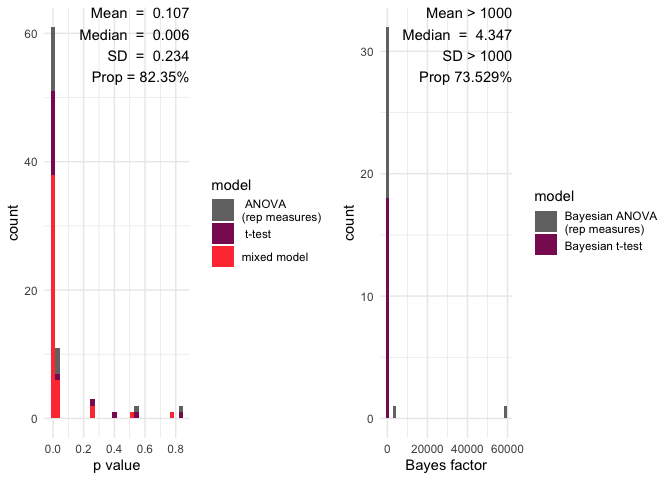
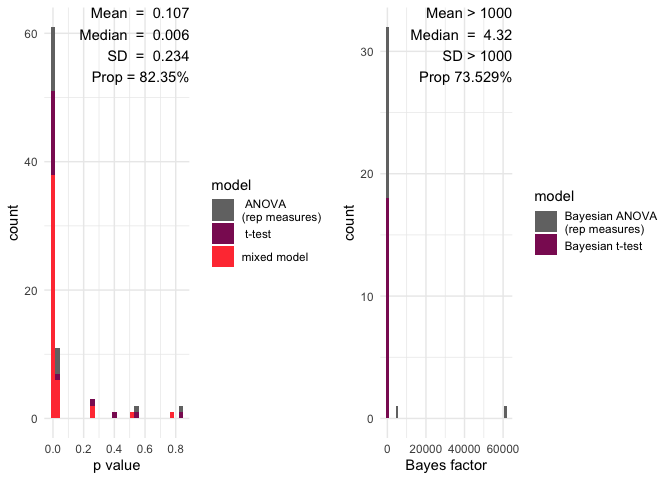
Preparations for 0.1.2 release

Changed region(s): [[0.5938, 0.9062, 0.7812, 0.9688], [0.5938, 0.0625, 0.7812, 0.0938], [0.5625, 0.8438, 0.5938, 0.875]]

diff --git a/docs/index.html b/docs/index.html
@@ -31,7 +31,7 @@
       </button>
       <span class="navbar-brand">
         <a class="navbar-link" href="index.html">multifear</a>
-        <span class="version label label-default" data-toggle="tooltip" data-placement="bottom" title="Released version">0.1.1</span>
+        <span class="version label label-default" data-toggle="tooltip" data-placement="bottom" title="Released version">0.1.2</span>
       </span>
     </div>
 
@@ -78,26 +78,30 @@
 <div id="installing-and-loading-the-package" class="section level2">
 <h2 class="hasAnchor">
 <a href="#installing-and-loading-the-package" class="anchor"></a>Installing and loading the package</h2>
+<p>You can install via CRAN with the following command:</p>
 <div class="sourceCode" id="cb1"><pre class="downlit sourceCode r">
+<code class="sourceCode R"><span class="fu"><a href="https://rdrr.io/r/utils/install.packages.html">install.packages</a></span><span class="op">(</span><span class="st">"multifear"</span><span class="op">)</span></code></pre></div>
+<p>For the development version, you can use the following commant:</p>
+<div class="sourceCode" id="cb2"><pre class="downlit sourceCode r">
 <code class="sourceCode R"><span class="co"># Install devtools package in case it is not yet installed</span>
 <span class="fu"><a href="https://rdrr.io/r/utils/install.packages.html">install.packages</a></span><span class="op">(</span><span class="st">"devtools"</span><span class="op">)</span> 
 <span class="fu">devtools</span><span class="fu">::</span><span class="fu"><a href="https://devtools.r-lib.org//reference/remote-reexports.html">install_github</a></span><span class="op">(</span><span class="st">"AngelosPsy/multifear"</span><span class="op">)</span></code></pre></div>
 <p>The package can be loaded with the following code:</p>
-<div class="sourceCode" id="cb2"><pre class="downlit sourceCode r">
+<div class="sourceCode" id="cb3"><pre class="downlit sourceCode r">
 <code class="sourceCode R"><span class="kw"><a href="https://rdrr.io/r/base/library.html">library</a></span><span class="op">(</span><span class="va"><a href="https://github.com/AngelosPsy/multifear">multifear</a></span><span class="op">)</span></code></pre></div>
 </div>
 <div id="basic-example" class="section level2">
 <h2 class="hasAnchor">
 <a href="#basic-example" class="anchor"></a>Basic Example</h2>
 <p>We will start with a basic example of how the package works. Before doing that, let’s load some additional packages that we need for our example.</p>
-<div class="sourceCode" id="cb3"><pre class="downlit sourceCode r">
+<div class="sourceCode" id="cb4"><pre class="downlit sourceCode r">
 <code class="sourceCode R"><span class="fu"><a href="https://rdrr.io/r/base/message.html">suppressPackageStartupMessages</a></span><span class="op">(</span><span class="kw"><a href="https://rdrr.io/r/base/library.html">library</a></span><span class="op">(</span><span class="va"><a href="https://dplyr.tidyverse.org">dplyr</a></span><span class="op">)</span><span class="op">)</span>
 <span class="fu"><a href="https://rdrr.io/r/base/message.html">suppressPackageStartupMessages</a></span><span class="op">(</span><span class="kw"><a href="https://rdrr.io/r/base/library.html">library</a></span><span class="op">(</span><span class="va"><a href="https://ggplot2.tidyverse.org">ggplot2</a></span><span class="op">)</span><span class="op">)</span></code></pre></div>
 <p>Now we will use some simulated data set that are included as example data in the package. In principle, you can use any data including conditioned responses (e.g., skin conductance). You can load the simulated data in your workspace as follows:</p>
-<div class="sourceCode" id="cb4"><pre class="downlit sourceCode r">
+<div class="sourceCode" id="cb5"><pre class="downlit sourceCode r">
 <code class="sourceCode R"><span class="fu"><a href="https://rdrr.io/r/utils/data.html">data</a></span><span class="op">(</span><span class="st">"example_data"</span><span class="op">)</span></code></pre></div>
 <p>From these data we are going to select only the 10 first lines – it saves a lot of time for computation for this example. Here are the first 10 rows of the data set:</p>
-<div class="sourceCode" id="cb5"><pre class="downlit sourceCode r">
+<div class="sourceCode" id="cb6"><pre class="downlit sourceCode r">
 <code class="sourceCode R"><span class="fu"><a href="https://rdrr.io/r/utils/head.html">head</a></span><span class="op">(</span><span class="va">example_data</span>, <span class="fl">10</span><span class="op">)</span>
 <span class="co">#&gt;    id       CSP1       CSP2       CSP3      CSP4      CSP5      CSP6      CSP7</span>
 <span class="co">#&gt; 1   2 0.62905570 0.92988220  1.0415000 0.9330014 0.9743682 0.8855119 0.8418664</span>
@@ -133,7 +137,7 @@
 <span class="co">#&gt; 9  0.02774107 0.39216860 0.1940482 1.33170800 0.41266960 0.00000000     1</span>
 <span class="co">#&gt; 10 0.72851310 0.96242680 0.0000000 1.27084300 0.03120063 0.00000000     2</span></code></pre></div>
 <p>A bit of explanation of the column names. With the column name ‘id’ is the participant number. Columns that contain the conditioned responses for conditioned stimulus plus (CS+) are denoted with column names starting with ‘CSP’. The number next to this name (1, 2, …, 10) is the trial number. The same goes for columns starting with ‘CSM’ but this denotes conditioned responses in CS- trials. At this point the package only supports a single CS+ and a single CS-. Also, the package assumes that trials are following each – so trial 2 comes after trial 1 etc. Let’s see the data:</p>
-<div class="sourceCode" id="cb6"><pre class="downlit sourceCode r">
+<div class="sourceCode" id="cb7"><pre class="downlit sourceCode r">
 <code class="sourceCode R"><span class="va">datmelt</span> <span class="op">&lt;-</span> <span class="va">example_data</span> <span class="op">%&gt;%</span>
   <span class="fu"><a href="https://dplyr.tidyverse.org/reference/select.html">select</a></span><span class="op">(</span><span class="op">-</span><span class="va">id</span><span class="op">)</span> <span class="op">%&gt;%</span>
   <span class="fu"><a href="https://rdrr.io/r/base/colSums.html">colMeans</a></span><span class="op">(</span><span class="op">)</span> <span class="op">%&gt;%</span>
@@ -145,7 +149,7 @@
   <span class="fu"><a href="https://ggplot2.tidyverse.org/reference/ggplot.html">ggplot</a></span><span class="op">(</span>data <span class="op">=</span> <span class="va">datmelt</span>, <span class="fu"><a href="https://ggplot2.tidyverse.org/reference/aes.html">aes</a></span><span class="op">(</span>x <span class="op">=</span> <span class="va">time</span>, y <span class="op">=</span> <span class="va">value</span>, group <span class="op">=</span> <span class="va">cs</span><span class="op">)</span><span class="op">)</span> <span class="op">+</span>
   <span class="fu"><a href="https://ggplot2.tidyverse.org/reference/geom_path.html">geom_line</a></span><span class="op">(</span><span class="fu"><a href="https://ggplot2.tidyverse.org/reference/aes.html">aes</a></span><span class="op">(</span>linetype <span class="op">=</span> <span class="va">cs</span><span class="op">)</span><span class="op">)</span> <span class="op">+</span>
   <span class="fu"><a href="https://ggplot2.tidyverse.org/reference/geom_point.html">geom_point</a></span><span class="op">(</span><span class="fu"><a href="https://ggplot2.tidyverse.org/reference/aes.html">aes</a></span><span class="op">(</span>shape <span class="op">=</span> <span class="va">cs</span><span class="op">)</span><span class="op">)</span></code></pre></div>
-<p><img src="README_files/figure-gfm/unnamed-chunk-7-1.png"><!-- --></p>
+<p><img src="README_files/figure-gfm/unnamed-chunk-8-1.png"><!-- --></p>
 <p>We see the basic learning pattern where CS+ responses end up being higher than CS- responses.</p>
 <p>Now we need to analyse the data. For this we will use the <em>multifear::universe_cs</em> function. In order for this function to work, we need to provide the following arguments.</p>
 <ul>
@@ -156,7 +160,7 @@
 <li><p>phase. Here we define the conditioning phase that the data were collected in (e.g., acquisition phase, extinction phase, etc). Please note that in case the user has multiple phases, she/he needs to run the function separately for each phases.</p></li>
 </ul>
 <p>There are some other options in the function, such as defining the type of conditioning response. However, these are not necessary for now. So, let’s now run the function:</p>
-<div class="sourceCode" id="cb7"><pre class="downlit sourceCode r">
+<div class="sourceCode" id="cb8"><pre class="downlit sourceCode r">
 <code class="sourceCode R"><span class="va">cs1</span> <span class="op">&lt;-</span> <span class="fu"><a href="https://rdrr.io/r/base/paste.html">paste0</a></span><span class="op">(</span><span class="st">"CSP"</span>, <span class="fl">1</span><span class="op">:</span><span class="fl">10</span><span class="op">)</span>
 <span class="va">cs2</span> <span class="op">&lt;-</span> <span class="fu"><a href="https://rdrr.io/r/base/paste.html">paste0</a></span><span class="op">(</span><span class="st">"CSM"</span>, <span class="fl">1</span><span class="op">:</span><span class="fl">10</span><span class="op">)</span>
 <span class="va">example_data</span> <span class="op">&lt;-</span> <span class="va">example_data</span><span class="op">[</span><span class="fl">1</span><span class="op">:</span><span class="fl">10</span>, <span class="op">]</span>
@@ -167,9 +171,12 @@
 <span class="co">#&gt;   cooks.distance.influence.merMod car </span>
 <span class="co">#&gt;   influence.merMod                car </span>
 <span class="co">#&gt;   dfbeta.influence.merMod         car </span>
-<span class="co">#&gt;   dfbetas.influence.merMod        car</span></code></pre></div>
+<span class="co">#&gt;   dfbetas.influence.merMod        car</span>
+<span class="co">#&gt; Registered S3 method overwritten by 'parameters':</span>
+<span class="co">#&gt;   method     from      </span>
+<span class="co">#&gt;   ci.blavaan bayestestR</span></code></pre></div>
 <p>And here are the results</p>
-<div class="sourceCode" id="cb8"><pre class="downlit sourceCode r">
+<div class="sourceCode" id="cb9"><pre class="downlit sourceCode r">
 <code class="sourceCode R"><span class="va">res</span>
 <span class="co">#&gt; # A tibble: 4 x 18</span>
 <span class="co">#&gt;   x     y     exclusion cut_off model controls method p.value effect.size</span>
@@ -197,7 +204,7 @@
 <li><p>data_used Here you have a data frame with the data used for the performed analyses. This is because someone maybe wants to recreate the results and also as a check that nothing went wrong.</p></li>
 </ul>
 <p>Now, we want to perform the same analyses but for different data reduction procedures (see below). We can do it simply by:</p>
-<div class="sourceCode" id="cb9"><pre class="downlit sourceCode r">
+<div class="sourceCode" id="cb10"><pre class="downlit sourceCode r">
 <code class="sourceCode R">
 <span class="va">res_multi</span> <span class="op">&lt;-</span> <span class="fu">multifear</span><span class="fu">::</span><span class="fu"><a href="reference/multiverse_cs.html">multiverse_cs</a></span><span class="op">(</span>cs1 <span class="op">=</span> <span class="va">cs1</span>, cs2 <span class="op">=</span> <span class="va">cs2</span>, data <span class="op">=</span> <span class="va">example_data</span>, subj <span class="op">=</span> <span class="st">"id"</span>, group <span class="op">=</span> <span class="cn">NULL</span>, phase <span class="op">=</span> <span class="st">"acquisition"</span>, include_bayes <span class="op">=</span> <span class="cn">TRUE</span>, include_mixed <span class="op">=</span> <span class="cn">TRUE</span><span class="op">)</span>
 <span class="co">#&gt; Skipping ANOVA due to the number of trials for the cs1 and/or cs2.</span>
@@ -220,7 +227,7 @@
 <span class="co">#&gt; #   statistic &lt;dbl&gt;, conf.low &lt;dbl&gt;, conf.high &lt;dbl&gt;, framework &lt;chr&gt;,</span>
 <span class="co">#&gt; #   data_used &lt;list&gt;, efffect.size.ma &lt;lgl&gt;</span></code></pre></div>
 <p>In terms of calling the function, we see that we need exactly the same arguments as before. Internally, the function actually applies the multifear::universe_cs but now apart from the full data set, also for the data sets with different data inclusion procedures. Whether each line refers to the full data set or any of the exclusion criteria, we can see on the column exclusion criteria or in the data_used column, although there it is difficult to see what happened and it serves only reproduction criteria. So, the easiest thing to do is to see the exclusion column. Now, it has the following levels:</p>
-<div class="sourceCode" id="cb10"><pre class="downlit sourceCode r">
+<div class="sourceCode" id="cb11"><pre class="downlit sourceCode r">
 <code class="sourceCode R"><span class="va">res_multi</span><span class="op">$</span><span class="va">exclusion</span> <span class="op">%&gt;%</span> <span class="fu"><a href="https://rdrr.io/r/base/unique.html">unique</a></span><span class="op">(</span><span class="op">)</span>
 <span class="co">#&gt; [1] "full_data"  "ten_per"    "min_first"  "th3_per"    "halves"    </span>
 <span class="co">#&gt; [6] "fltrials"   "twenty_per" "fl2trials"  "per2trials"</span></code></pre></div>
@@ -246,24 +253,24 @@
 <p>5) Mean and median of Bayes factors</p>
 <p>6) the proportion of Bayes factors above 1</p>
 <!-- end list -->
-<div class="sourceCode" id="cb11"><pre class="downlit sourceCode r">
+<div class="sourceCode" id="cb12"><pre class="downlit sourceCode r">
 <code class="sourceCode R"><span class="fu">multifear</span><span class="fu">::</span><span class="fu"><a href="reference/inference_cs.html">inference_cs</a></span><span class="op">(</span><span class="va">res_multi</span>, na.rm <span class="op">=</span> <span class="cn">TRUE</span><span class="op">)</span>
 <span class="co">#&gt;   mean_p_value median_p_value sd_p_value prop_p_value mean_bf_value</span>
-<span class="co">#&gt; 1    0.1074323     0.00638261  0.2341194     82.35294       1843.26</span>
+<span class="co">#&gt; 1    0.1074323     0.00638261  0.2341194     82.35294      1958.082</span>
 <span class="co">#&gt;   median_bf_value sd_bf_value prop_bf_value</span>
-<span class="co">#&gt; 1        4.319848    9900.431      76.47059</span></code></pre></div>
+<span class="co">#&gt; 1        4.319848    10487.83      73.52941</span></code></pre></div>
 <p>And here we have a barplot of the results:</p>
-<div class="sourceCode" id="cb12"><pre class="downlit sourceCode r">
+<div class="sourceCode" id="cb13"><pre class="downlit sourceCode r">
 <code class="sourceCode R"><span class="fu">multifear</span><span class="fu">::</span><span class="fu"><a href="reference/inference_plot.html">inference_plot</a></span><span class="op">(</span><span class="va">res_multi</span>, add_line <span class="op">=</span> <span class="cn">FALSE</span><span class="op">)</span></code></pre></div>
-<p><img src="README_files/figure-gfm/unnamed-chunk-13-1.png"><!-- --></p>
-<div class="sourceCode" id="cb13"><pre class="sourceCode R"><code class="sourceCode r"><span id="cb13-1"><a href="#cb13-1"></a><span class="co">#&gt; TableGrob (1 x 2) "arrange": 2 grobs</span></span>
-<span id="cb13-2"><a href="#cb13-2"></a><span class="co">#&gt;   z     cells    name           grob</span></span>
-<span id="cb13-3"><a href="#cb13-3"></a><span class="co">#&gt; 1 1 (1-1,1-1) arrange gtable[layout]</span></span>
-<span id="cb13-4"><a href="#cb13-4"></a><span class="co">#&gt; 2 2 (1-1,2-2) arrange gtable[layout]</span></span></code></pre></div>
-<p>Lastly, to plot the effect sizes, you can use the following function</p>
-<div class="sourceCode" id="cb14"><pre class="downlit sourceCode r">
-<code class="sourceCode R"><span class="fu">multifear</span><span class="fu">::</span><span class="fu"><a href="reference/forestplot_mf.html">forestplot_mf</a></span><span class="op">(</span><span class="va">res_multi</span><span class="op">)</span></code></pre></div>
 <p><img src="README_files/figure-gfm/unnamed-chunk-14-1.png"><!-- --></p>
+<div class="sourceCode" id="cb14"><pre class="sourceCode R"><code class="sourceCode r"><span id="cb14-1"><a href="#cb14-1"></a><span class="co">#&gt; TableGrob (1 x 2) "arrange": 2 grobs</span></span>
+<span id="cb14-2"><a href="#cb14-2"></a><span class="co">#&gt;   z     cells    name           grob</span></span>
+<span id="cb14-3"><a href="#cb14-3"></a><span class="co">#&gt; 1 1 (1-1,1-1) arrange gtable[layout]</span></span>
+<span id="cb14-4"><a href="#cb14-4"></a><span class="co">#&gt; 2 2 (1-1,2-2) arrange gtable[layout]</span></span></code></pre></div>
+<p>Lastly, to plot the effect sizes, you can use the following function</p>
+<div class="sourceCode" id="cb15"><pre class="downlit sourceCode r">
+<code class="sourceCode R"><span class="fu">multifear</span><span class="fu">::</span><span class="fu"><a href="reference/forestplot_mf.html">forestplot_mf</a></span><span class="op">(</span><span class="va">res_multi</span><span class="op">)</span></code></pre></div>
+<p><img src="README_files/figure-gfm/unnamed-chunk-15-1.png"><!-- --></p>
 </div>
 </div>
 
@@ -273,6 +280,8 @@
     <div class="links">
 <h2>Links</h2>
 <ul class="list-unstyled">
+<li>Download from CRAN at <br><a href="https://cloud.r-project.org/package=multifear">https://cloud.r-project.org/package=multifear</a>
+</li>
 <li>Browse source code at <br><a href="https://github.com/AngelosPsy/multifear/">https://github.com/AngelosPsy/multifear/</a>
 </li>
 <li>Report a bug at <br><a href="https://github.com/AngelosPsy/multifear/issues">https://github.com/AngelosPsy/multifear/issues</a>

diff --git a/docs/reference/mixed_mf.html b/docs/reference/mixed_mf.html
@@ -72,7 +72,7 @@
       </button>
       <span class="navbar-brand">
         <a class="navbar-link" href="../index.html">multifear</a>
-        <span class="version label label-default" data-toggle="tooltip" data-placement="bottom" title="Released version">0.1.1</span>
+        <span class="version label label-default" data-toggle="tooltip" data-placement="bottom" title="Released version">0.1.2</span>
       </span>
     </div>
 
@@ -214,7 +214,9 @@ and the other one without taking subject into account.</p>
 
 <span class='co'># mixed models without groups</span>
 <span class='fu'>mixed_mf</span><span class='op'>(</span>cs1 <span class='op'>=</span> <span class='va'>cs1</span>, cs2 <span class='op'>=</span> <span class='va'>cs2</span>, subj <span class='op'>=</span> <span class='va'>subj</span>, data <span class='op'>=</span> <span class='va'>example_data</span><span class='op'>)</span>
-</div><div class='output co'>#&gt; <span style='color: #949494;'># A tibble: 6 x 16</span><span>
+</div><div class='output co'>#&gt; <span class='message'>Registered S3 method overwritten by 'parameters':</span>
+#&gt; <span class='message'>  method     from      </span>
+#&gt; <span class='message'>  ci.blavaan bayestestR</span></div><div class='output co'>#&gt; <span style='color: #949494;'># A tibble: 6 x 16</span><span>
 #&gt;   x     y     exclusion model controls method p.value effect.size
 #&gt;   </span><span style='color: #949494;font-style: italic;'>&lt;chr&gt;</span><span> </span><span style='color: #949494;font-style: italic;'>&lt;chr&gt;</span><span> </span><span style='color: #949494;font-style: italic;'>&lt;chr&gt;</span><span>     </span><span style='color: #949494;font-style: italic;'>&lt;chr&gt;</span><span> </span><span style='color: #949494;font-style: italic;'>&lt;lgl&gt;</span><span>    </span><span style='color: #949494;font-style: italic;'>&lt;chr&gt;</span><span>    </span><span style='color: #949494;font-style: italic;'>&lt;dbl&gt;</span><span> </span><span style='color: #949494;font-style: italic;'>&lt;lgl&gt;</span><span>      
 #&gt; </span><span style='color: #BCBCBC;'>1</span><span> cscs2 scr   full data mixe… </span><span style='color: #BB0000;'>NA</span><span>       mixed…  0.047</span><span style='text-decoration: underline;'>7</span><span> </span><span style='color: #BB0000;'>NA</span><span>         

diff --git a/docs/reference/example_data.html b/docs/reference/example_data.html
@@ -74,7 +74,7 @@ stimulus minus trials The variables are as follows:" />
       </button>
       <span class="navbar-brand">
         <a class="navbar-link" href="../index.html">multifear</a>
-        <span class="version label label-default" data-toggle="tooltip" data-placement="bottom" title="Released version">0.1.1</span>
+        <span class="version label label-default" data-toggle="tooltip" data-placement="bottom" title="Released version">0.1.2</span>
       </span>
     </div>
 

diff --git a/docs/reference/multiverse_cs.html b/docs/reference/multiverse_cs.html
@@ -73,7 +73,7 @@ data" />
       </button>
       <span class="navbar-brand">
         <a class="navbar-link" href="../index.html">multifear</a>
-        <span class="version label label-default" data-toggle="tooltip" data-placement="bottom" title="Released version">0.1.1</span>
+        <span class="version label label-default" data-toggle="tooltip" data-placement="bottom" title="Released version">0.1.2</span>
       </span>
     </div>
 

diff --git a/docs/reference/bt_test_mf.html b/docs/reference/bt_test_mf.html
@@ -72,7 +72,7 @@
       </button>
       <span class="navbar-brand">
         <a class="navbar-link" href="../index.html">multifear</a>
-        <span class="version label label-default" data-toggle="tooltip" data-placement="bottom" title="Released version">0.1.1</span>
+        <span class="version label label-default" data-toggle="tooltip" data-placement="bottom" title="Released version">0.1.2</span>
       </span>
     </div>
 

diff --git a/docs/reference/chop_cs.html b/docs/reference/chop_cs.html
@@ -72,7 +72,7 @@
       </button>
       <span class="navbar-brand">
         <a class="navbar-link" href="../index.html">multifear</a>
-        <span class="version label label-default" data-toggle="tooltip" data-placement="bottom" title="Released version">0.1.1</span>
+        <span class="version label label-default" data-toggle="tooltip" data-placement="bottom" title="Released version">0.1.2</span>
       </span>
     </div>
 

diff --git a/docs/reference/chop_css.html b/docs/reference/chop_css.html
@@ -72,7 +72,7 @@
       </button>
       <span class="navbar-brand">
         <a class="navbar-link" href="../index.html">multifear</a>
-        <span class="version label label-default" data-toggle="tooltip" data-placement="bottom" title="Released version">0.1.1</span>
+        <span class="version label label-default" data-toggle="tooltip" data-placement="bottom" title="Released version">0.1.2</span>
       </span>
     </div>
 

diff --git a/docs/reference/combine_cs.html b/docs/reference/combine_cs.html
@@ -72,7 +72,7 @@
       </button>
       <span class="navbar-brand">
         <a class="navbar-link" href="../index.html">multifear</a>
-        <span class="version label label-default" data-toggle="tooltip" data-placement="bottom" title="Released version">0.1.1</span>
+        <span class="version label label-default" data-toggle="tooltip" data-placement="bottom" title="Released version">0.1.2</span>
       </span>
     </div>
 

diff --git a/docs/reference/exclusion_criteria.html b/docs/reference/exclusion_criteria.html
@@ -72,7 +72,7 @@
       </button>
       <span class="navbar-brand">
         <a class="navbar-link" href="../index.html">multifear</a>
-        <span class="version label label-default" data-toggle="tooltip" data-placement="bottom" title="Released version">0.1.1</span>
+        <span class="version label label-default" data-toggle="tooltip" data-placement="bottom" title="Released version">0.1.2</span>
       </span>
     </div>
 

diff --git a/docs/reference/index.html b/docs/reference/index.html
@@ -71,7 +71,7 @@
       </button>
       <span class="navbar-brand">
         <a class="navbar-link" href="../index.html">multifear</a>
-        <span class="version label label-default" data-toggle="tooltip" data-placement="bottom" title="Released version">0.1.1</span>
+        <span class="version label label-default" data-toggle="tooltip" data-placement="bottom" title="Released version">0.1.2</span>
       </span>
     </div>
 

diff --git a/docs/reference/inference_cs.html b/docs/reference/inference_cs.html
@@ -72,7 +72,7 @@
       </button>
       <span class="navbar-brand">
         <a class="navbar-link" href="../index.html">multifear</a>
-        <span class="version label label-default" data-toggle="tooltip" data-placement="bottom" title="Released version">0.1.1</span>
+        <span class="version label label-default" data-toggle="tooltip" data-placement="bottom" title="Released version">0.1.2</span>
       </span>
     </div>
 

diff --git a/docs/reference/rm_anova_mf.html b/docs/reference/rm_anova_mf.html
@@ -72,7 +72,7 @@
       </button>
       <span class="navbar-brand">
         <a class="navbar-link" href="../index.html">multifear</a>
-        <span class="version label label-default" data-toggle="tooltip" data-placement="bottom" title="Released version">0.1.1</span>
+        <span class="version label label-default" data-toggle="tooltip" data-placement="bottom" title="Released version">0.1.2</span>
       </span>
     </div>
 
